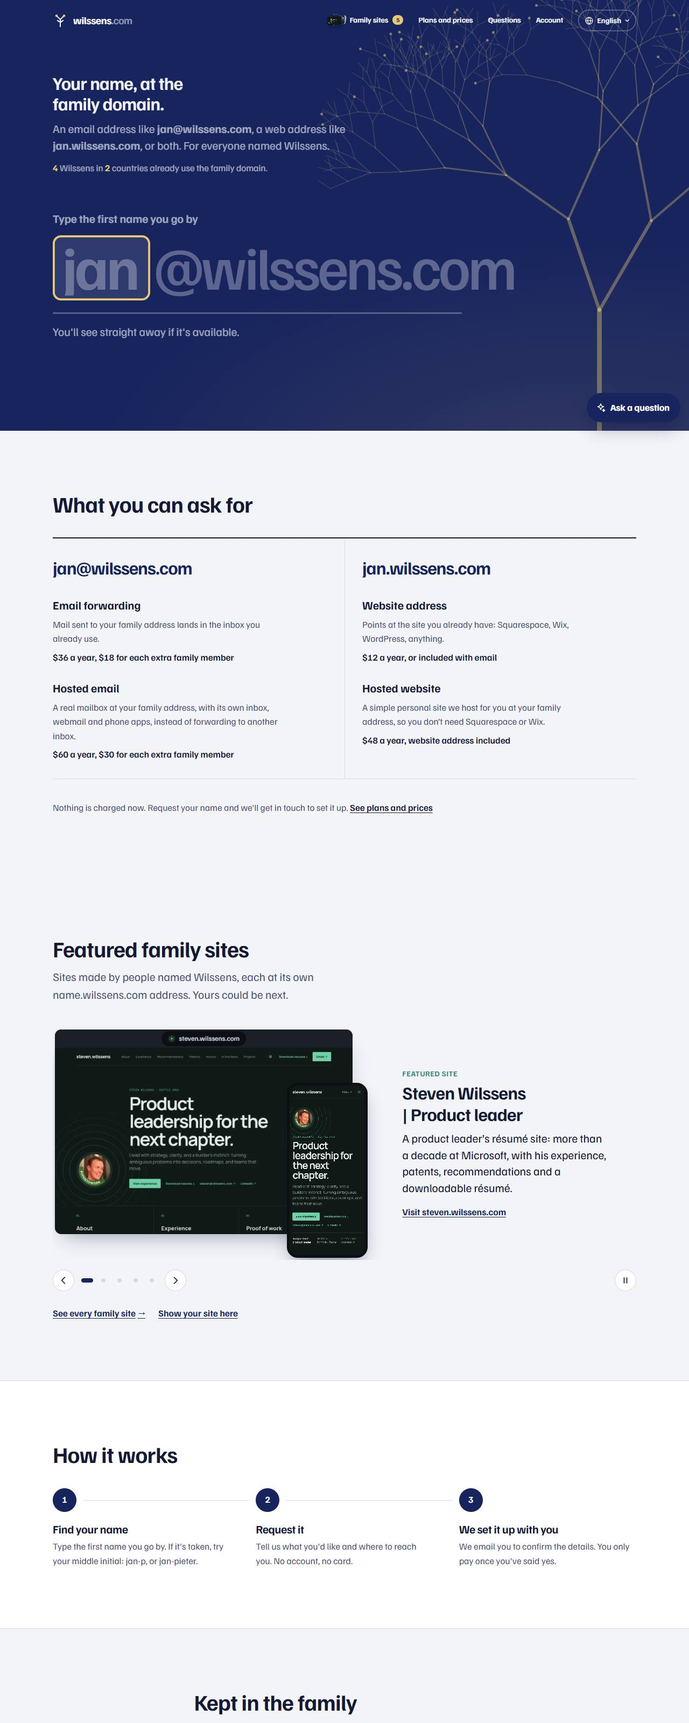
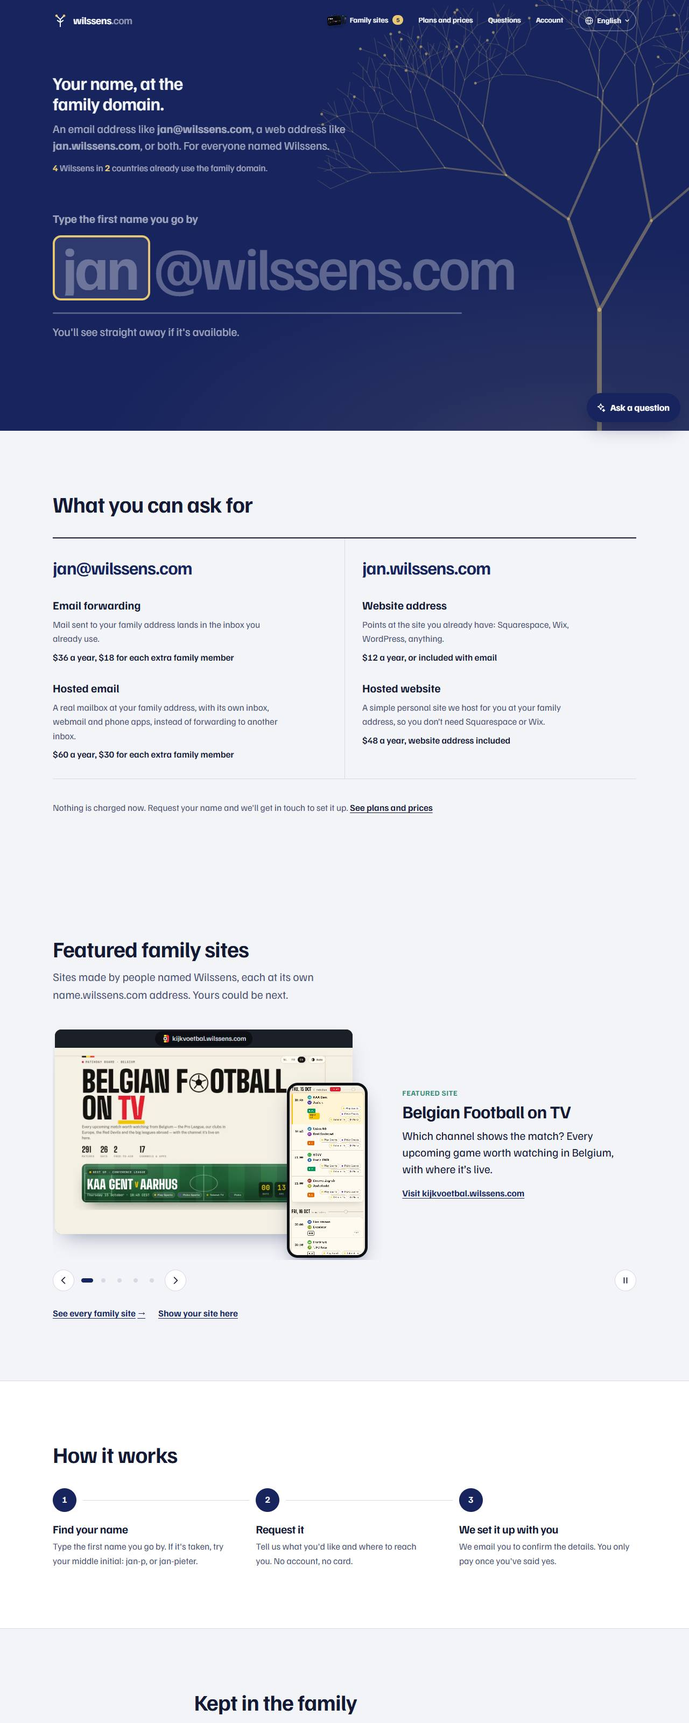
Sharpen positioning for recruiters and feature the wilssens.com write-up
Home: a headline with level and domain, one focus (data, experimentation, AI),
three capabilities tied to stories, and the Building wilssens.com write-up
featured. Article: a hiring-manager summary up top and outcome numbers instead
of build metrics. Photos are no longer inlined as data: URIs, which scrapers
read as empty images.

Changed region(s): [[0.0625, 0.5938, 0.5312, 0.75], [0.5625, 0.625, 0.875, 0.7188]]

diff --git a/src/App.tsx b/src/App.tsx
@@ -1,4 +1,4 @@
-import { useEffect, useRef, useState, useSyncExternalStore } from 'react'
+import { useEffect, useRef, useState, useSyncExternalStore, type ReactNode } from 'react'
 import { flushSync } from 'react-dom'
 import amitGupteImage from './assets/amit-gupte.jpg'
 import jayantAroraImage from './assets/jayant-arora.jpg'
@@ -58,14 +58,10 @@ const projects = [
   // This site: no outbound link, since the reader is already here.
   { name: 'steven.wilssens.com', url: 'https://steven.wilssens.com', tag: 'This site', self: true, desktop: stevenDesktop, mobile: stevenMobile, alt: 'The steven.wilssens.com home page: a dark green design with the headline “Product leadership for the next chapter.”', summary: 'The site you are reading, built and run like a product. React pages are prerendered to static HTML and served from Cloudflare Pages, with every push to main deploying to production and every branch getting its own preview. Its own privacy-friendly analytics track visits, Core Web Vitals per device, and search engine and AI crawler traffic. Every page also comes as Markdown, with llms.txt and structured data, so AI assistants read it as well as people do.' },
 ]
-const capabilities = [
-  ['01', 'Strategic leadership', 'Define and socialize long-term product vision, then translate it into roadmaps and decisions teams can execute against.'],
-  ['02', 'Portfolio oversight', 'Manage consumer-facing surfaces and product portfolios, creating simple, consistent experiences across platforms.'],
-  ['03', 'Build great PM teams', 'Hire, mentor, and grow high-performing PMs and people managers through clear craft standards and development paths.'],
-  ['04', 'Executive communication', 'Align senior leaders on strategy, execution risks, and mitigation plans so complex initiatives stay clear and moving.'],
-  ['05', 'Cross-functional alignment', 'Partner with Engineering, Design, Analytics, and Revenue leaders to balance business value with customer experience.'],
-  ['06', 'Operational excellence', 'Establish rigorous experimentation and funnel-analysis frameworks that drive measurable gains in completion and retention.'],
-  ['07', 'Technically grounded innovation', 'Bring technical depth, product judgment, and a builder’s instinct to ambiguous problems and turn signals into better decisions.'],
+const capabilities: [string, string, ReactNode][] = [
+  ['01', 'Data and experimentation products', 'Led the PM team behind the data, insights, experimentation and ML products that Windows engineers and PMs use to decide what ships, built on telemetry from more than a billion devices.'],
+  ['02', 'PM teams that grow', 'Several of the recommendations here come from people who reported to me for years. They describe the opportunities, visibility and coaching that moved their careers forward.'],
+  ['03', 'Leading by building', <>When a retiring OKR tool left a gap, a member of my team and I stood up a replacement from scratch with AI tools. I built <a href="/building-wilssens">wilssens.com</a> the same way, to stay sharp on what my teams ship, not to replace them.</>],
 ]
 const recommendations = [
   ['Steve Rowe', 'Group Engineering Manager at Microsoft', `I had the privilege of working with Steven for five years. He was relentless in pursuing what he believed the product and our customers truly needed, even when it wasn’t the prevailing trend. Always full of ideas, he continually identified new features and opportunities to create customer value. Steven was also a quick study who could enter an unfamiliar space, rapidly develop a strong understanding of it, and begin generating thoughtful ideas.
@@ -171,21 +167,23 @@ function App({ path }: { path?: string }) {
   const renderImpactStrip = () => <section className="impact-strip" aria-label="Selected impact"><div><strong>250%+</strong><span>growth in monthly active spatial-audio devices</span></div><div><strong>1B+</strong><span>Windows devices informing product decisions</span></div><div><strong>15%</strong><span>increase in Windows adoption</span></div><div><strong>30%</strong><span>reduction in customer issues</span></div></section>
   const renderCapabilities = () => <section className="capabilities"><div className="capabilities-heading"><span className="eyebrow">What I do well</span><h2>Leadership that turns ambiguity into momentum.</h2></div><div className="capability-grid">{capabilities.map(([number, title, description]) => <article key={title}><span className="section-number">{number}</span><h3>{title}</h3><p>{description}</p></article>)}</div></section>
   const renderPullQuotes = () => <section className="pull-quotes" aria-label="What colleagues say"><span className="eyebrow">What colleagues say</span><div className="pull-quote-grid">{pullQuotes.map(([name, quote]) => { const role = recommendations.find(([person]) => person === name)?.[1]; return <figure key={name}><blockquote>“{quote}”</blockquote><figcaption><span className="avatar">{recommendationImages[name] ? <img src={recommendationImages[name]} alt={`${name} profile`} /> : name.split(' ').map((part) => part[0]).join('')}</span><span><strong>{name}</strong><small>{role}</small></span></figcaption></figure> })}</div><a className="text-link" href="/recommendations">Read all {recommendations.length} recommendations →</a></section>
-  const renderContactBand = () => <section className="contact-band"><div><span className="eyebrow">Start a conversation</span><h2>Working through a hard product problem?</h2><p>I’m exploring product leadership, experimentation, audio, data, and AI.</p></div><div className="contact-actions"><a className="primary-button" href="mailto:steven@wilssens.com">Email Steven ↗</a>{renderResumeLink('text-link')}<a className="text-link" href="https://www.linkedin.com/in/steven-wilssens-59495889/" target="_blank" rel="noreferrer">Connect on LinkedIn ↗</a></div></section>
-  const renderHome = () => <><section className="profile-hero"><SpatialField><img src={profileImage} alt="Steven Wilssens" /></SpatialField><div className="hero-copy"><div className="eyebrow hero-kicker"><h1>Steven Wilssens</h1> · Seattle area</div><p className="hero-title">Product leadership for the next chapter.</p><p className="lede">I lead with strategy, clarity, and a builder’s instinct: turning ambiguous problems into decisions, roadmaps, and teams that move.</p><div className="hero-actions"><a className="primary-button" href="/experience">View experience</a>{renderResumeLink('text-link')}<a className="text-link" href="mailto:steven@wilssens.com">steven@wilssens.com ↗</a><a className="text-link" href="https://www.linkedin.com/in/steven-wilssens-59495889/" target="_blank" rel="noreferrer">LinkedIn ↗</a></div></div><div className="hero-facts"><span>Independent product leader</span><span>Strategy · Portfolio · Teams</span><span>Clarity · Rigor · Momentum</span></div></section><section className="overview-grid"><article><span className="section-number">01</span><h2>About</h2><p>Product, portfolio, and people leadership grounded in customer insight, rigorous execution, and technical judgment.</p><a href="/about">Read the story →</a></article><article><span className="section-number">02</span><h2>Experience</h2><p>From Belgian software development to Windows data, spatial audio, Azure DevOps, and team leadership.</p><a href="/experience">See the timeline →</a></article><article><span className="section-number">03</span><h2>Proof of work</h2><p>Patents, honors, recommendations, press coverage, and projects from the work I have helped bring into the world.</p><div className="proof-links"><a href="/patents">Patents</a><a href="/honors">Honors</a><a href="/recommendations">Recommendations</a><a href="/news">In the News</a><a href="/projects">Projects</a></div></article></section></>
-  const renderAbout = () => <>{renderPageHeader({ title: 'About', intro: 'A product and technology leader beginning a new chapter after Microsoft.' })}<section className="reading-layout"><div className="reading-main"><p className="intro-paragraph">After more than a decade at Microsoft, I am now bringing a career in data, AI, product strategy, software, and people leadership into its next chapter.</p><p>Most recently, I led the Windows & Devices Data PM team, advancing the Windows ecosystem through data-driven strategies. I care about the space where customer signals, experimentation, machine learning, and strong product judgment meet.</p><p>Before leading Windows data teams, I built products and platforms across Azure DevOps, spatial audio, game streaming, and operating systems. Earlier still, I was a developer and team lead in Belgium, where I learned to pair technical depth with practical delivery and the growth of the people around me.</p></div><aside className="side-note"><img className="about-portrait" src={profileImage} alt="Steven Wilssens" width={124} height={124} /><span>Most recently</span><strong>Principal Group Product Manager, Microsoft</strong><span>Now exploring</span><strong>Product leadership, experimentation, audio, data, and AI</strong><span>Education</span><strong>{education.degree}, {education.school}</strong><span>Languages</span><strong>{languages}</strong></aside></section></>
+  const renderFeatured = () => { const project = projects[0]; return <section className="featured" aria-labelledby="featured-title"><span className="eyebrow">Featured write-up</span><article className="project-card"><a className="project-frame" href={project.article} aria-label="Read Building wilssens.com">{renderProjectFrame(project)}</a><div className="project-info"><p className="project-tag">Built in 16 days with Claude Code</p><h2 id="featured-title">Building wilssens.com</h2><p>A family platform for email and websites, built the way I’d want a platform team to build it: rules enforced by the database, experiments shipped dark and measured, and AI restricted by architecture rather than by prompt.</p><div className="project-links"><a className="project-article" href={project.article}>Read the write-up →</a></div></div></article></section> }
+  const renderContactBand = () => <section className="contact-band"><div><span className="eyebrow">Start a conversation</span><h2>Working through a hard product problem?</h2><p>I’m looking for my next product leadership role in data, experimentation and AI.</p></div><div className="contact-actions"><a className="primary-button" href="mailto:steven@wilssens.com">Email Steven ↗</a>{renderResumeLink('text-link')}<a className="text-link" href="https://www.linkedin.com/in/steven-wilssens-59495889/" target="_blank" rel="noreferrer">Connect on LinkedIn ↗</a></div></section>
+  const renderHome = () => <><section className="profile-hero"><SpatialField><img src={profileImage} alt="Steven Wilssens" /></SpatialField><div className="hero-copy"><div className="eyebrow hero-kicker"><h1>Steven Wilssens</h1> · Seattle area</div><p className="hero-title">Principal product leader for data and AI.</p><p className="lede">Most recently I led Windows & Devices Data product management at Microsoft: the data, experimentation and ML products behind decisions across a billion+ Windows devices. Now building in AI while choosing my next leadership role.</p><div className="hero-actions"><a className="primary-button" href="/experience">View experience</a>{renderResumeLink('text-link')}<a className="text-link" href="mailto:steven@wilssens.com">steven@wilssens.com ↗</a><a className="text-link" href="https://www.linkedin.com/in/steven-wilssens-59495889/" target="_blank" rel="noreferrer">LinkedIn ↗</a></div></div><div className="hero-facts"><span>Building in AI, choosing my next role</span><span>Principal · Group PM</span><span>Data · Experimentation · AI</span></div></section><section className="overview-grid"><article><span className="section-number">01</span><h2>About</h2><p>Product, portfolio, and people leadership grounded in customer insight, rigorous execution, and technical judgment.</p><a href="/about">Read the story →</a></article><article><span className="section-number">02</span><h2>Experience</h2><p>From Belgian software development to Windows data, spatial audio, Azure DevOps, and team leadership.</p><a href="/experience">See the timeline →</a></article><article><span className="section-number">03</span><h2>Proof of work</h2><p>Patents, honors, recommendations, press coverage, and projects from the work I have helped bring into the world.</p><div className="proof-links"><a href="/patents">Patents</a><a href="/honors">Honors</a><a href="/recommendations">Recommendations</a><a href="/news">In the News</a><a href="/projects">Projects</a></div></article></section></>
+  const renderAbout = () => <>{renderPageHeader({ title: 'About', intro: 'A product and technology leader beginning a new chapter after Microsoft.' })}<section className="reading-layout"><div className="reading-main"><p className="intro-paragraph">After more than a decade at Microsoft, I am now bringing a career in data, AI, product strategy, software, and people leadership into its next chapter.</p><p>Most recently, I led the Windows & Devices Data PM team, advancing the Windows ecosystem through data-driven strategies. I care about the space where customer signals, experimentation, machine learning, and strong product judgment meet.</p><p>Before leading Windows data teams, I built products and platforms across Azure DevOps, spatial audio, game streaming, and operating systems. Earlier still, I was a developer and team lead in Belgium, where I learned to pair technical depth with practical delivery and the growth of the people around me.</p></div><aside className="side-note"><img className="about-portrait" src={profileImage} alt="Steven Wilssens" width={124} height={124} /><span>Most recently</span><strong>Principal Group Product Manager, Microsoft</strong><span>Looking for</span><strong>Product leadership in data, experimentation and AI</strong><span>Education</span><strong>{education.degree}, {education.school}</strong><span>Languages</span><strong>{languages}</strong></aside></section></>
   const renderExperience = () => <>{renderPageHeader({ title: 'Experience', intro: 'A full career moving between code, customers, strategy, and teams.', showResume: true })}<section className="experience-graph" aria-label="Interactive experience timeline"><div className="graph-scroll" ref={graphScrollRef}><div className="graph-track" style={{ '--progress': selectedExperience } as React.CSSProperties}>{experiences.map((item, index) => <button className={`graph-node ${selectedExperience === index ? 'selected' : ''}`} style={{ '--node-index': index } as React.CSSProperties} type="button" key={`${item.role}-${item.dates}`} onClick={() => { scrollLockUntil.current = Date.now() + 1000; setSelectedExperience(index); experienceRefs.current[index]?.scrollIntoView?.({ behavior: 'smooth', block: 'start' }) }} aria-label={`Scroll to ${item.role} at ${item.company}`} aria-pressed={selectedExperience === index}><span className="graph-dot" /><span className="graph-year">{item.dates.match(/\d{4}/)?.[0]}</span><span className="graph-role" title={item.role}>{item.role}</span><span className="graph-company">{item.company}</span></button>)}</div></div></section><section className="timeline">{experiences.map((item, index) => <article className="timeline-item" ref={(element) => { experienceRefs.current[index] = element }} key={`${item.role}-${item.dates}`}><div className="timeline-date">{item.dates}</div><div className="timeline-body"><span className="company-label">{item.company}</span><h2>{item.role}</h2><p className="muted">{item.location}</p><p>{item.summary}</p><ul>{item.points.map((point) => <li key={point}>{point}</li>)}</ul></div></article>)}<article className="timeline-item"><div className="timeline-date">{education.dates}</div><div className="timeline-body"><span className="company-label">Education</span><h2>{education.degree}</h2><p className="muted">{education.school}</p><p>Languages: {languages}.</p></div></article></section></>
   const renderRecommendations = () => <>{renderPageHeader({ title: 'Recommendations', intro: 'A few notes from people who have built products and teams with me.' })}<section className="recommendation-list">{recommendations.map(([name, role, text]) => { const isExpanded = expandedRecommendation === name; return <article className="recommendation" key={name}><div className="avatar">{recommendationImages[name] ? <img src={recommendationImages[name]} alt={`${name} profile`} /> : name.split(' ').map((part) => part[0]).join('')}</div><div><h2><a className="recommendation-author" href={recommendationLinks[name]} target="_blank" rel="noreferrer">{name} ↗</a></h2><p className="muted">{role}</p><blockquote className={isExpanded ? 'expanded' : ''}>“{text}”</blockquote><button className="more-button" type="button" onClick={() => setExpandedRecommendation(isExpanded ? null : name)} aria-expanded={isExpanded}>{isExpanded ? 'less' : 'more'}</button></div></article> })}</section></>
   const renderArchive = ({ title, intro, items }: { title: string; intro: string; items: string[][] }) => <>{renderPageHeader({ title, intro })}<section className="archive-list honor">{items.map(([name, meta], index) => <article key={name}><span className="archive-index">{String(index + 1).padStart(2, '0')}</span><div><h2>{name}</h2><p>{meta}</p></div></article>)}</section></>
   const renderPatentGroup = (id: string, heading: string, dateLabel: string, items: Invention[]) => <section className="patent-group" aria-labelledby={id}><h2 id={id}>{heading} <span>{items.reduce((count, item) => count + item.records.length, 0)}</span></h2><div className="archive-list patent-list">{items.map(({ title, summary, records }) => <article key={title}><span className="patent-year">{records[0].date.slice(-4)}</span><div><h3>{title}</h3><p className="patent-summary">{summary}</p><ul className="patent-records">{records.map(({ number, date, filed }) => <li key={number}><a href={justiaUrl(number)} target="_blank" rel="noreferrer" aria-label={`${formatPatentNumber(number)} on Justia Patents`}>{formatPatentNumber(number)} ↗</a><span>{dateLabel} {date}</span><span>Filed {filed}</span></li>)}</ul></div></article>)}</div></section>
   const renderPatents = () => { const granted = grantedPatents.flatMap((item) => item.records).length; const published = patentApplications.flatMap((item) => item.records).length; return <>{renderPageHeader({ title: 'Patents', intro: `${granted} granted US patents and ${published} published applications in spatial audio, streaming, media, and device telemetry, all assigned to Microsoft.` })}{renderPatentGroup('granted-patents', 'Granted patents', 'Granted', grantedPatents)}{renderPatentGroup('patent-applications', 'Published applications', 'Published', patentApplications)}</> }
   const renderNews = () => <>{renderPageHeader({ title: 'In the News', intro: 'Coverage of spatial audio work from the Windows and Xbox era.' })}<section className="archive-list news-list">{news.map((item, index) => <article key={item.title}><span className="archive-index">{String(index + 1).padStart(2, '0')}</span><div><p className="news-publication">{item.publication}</p><h2>{item.title}</h2><p className="news-summary">{item.summary}</p><blockquote className="news-quote">{item.quote}<cite>Steven Wilssens · {item.publication}</cite></blockquote><a href={item.url} target="_blank" rel="noreferrer">Read article ↗</a></div></article>)}</section></>
-  const renderProjects = () => <>{renderPageHeader({ title: 'Projects & interests', intro: 'A few projects where product thinking meets family, community, and the joy of making things useful.' })}<section className="project-list">{projects.map((project) => { const host = new URL(project.url).host; const frame = <><span className="project-browser"><span className="project-bar" aria-hidden="true"><span className="project-url"><svg viewBox="0 0 16 16" width="11" height="11"><path d="M4.5 7V5a3.5 3.5 0 0 1 7 0v2" fill="none" stroke="currentColor" strokeWidth="1.6" /><rect x="3" y="7" width="10" height="7" rx="1.5" fill="currentColor" /></svg>{host}</span></span><span className="project-viewport"><img src={project.desktop} alt={project.alt} width={1280} loading="lazy" decoding="async" /></span></span><span className="project-phone" aria-hidden="true"><img src={project.mobile} alt="" width={390} height={844} loading="lazy" decoding="async" /></span></>; return <article className="project-card" key={project.name}>{project.self ? <div className="project-frame">{frame}</div> : <a className="project-frame" href={project.url} target="_blank" rel="noreferrer" aria-label={`Visit ${host} (opens in a new tab)`}>{frame}</a>}<div className="project-info"><p className="project-tag">{project.tag}</p><h2>{project.name}</h2><p>{project.summary}</p><div className="project-links">{project.article && <a className="project-article" href={project.article}>Read how it was built →</a>}{!project.self && <a href={project.url} target="_blank" rel="noreferrer">Visit project ↗</a>}</div></div></article> })}</section></>
+  const renderProjectFrame = (project: typeof projects[number]) => { const host = new URL(project.url).host; return <><span className="project-browser"><span className="project-bar" aria-hidden="true"><span className="project-url"><svg viewBox="0 0 16 16" width="11" height="11"><path d="M4.5 7V5a3.5 3.5 0 0 1 7 0v2" fill="none" stroke="currentColor" strokeWidth="1.6" /><rect x="3" y="7" width="10" height="7" rx="1.5" fill="currentColor" /></svg>{host}</span></span><span className="project-viewport"><img src={project.desktop} alt={project.alt} width={1280} loading="lazy" decoding="async" /></span></span><span className="project-phone" aria-hidden="true"><img src={project.mobile} alt="" width={390} height={844} loading="lazy" decoding="async" /></span></> }
+  const renderProjects = () => <>{renderPageHeader({ title: 'Projects & interests', intro: 'A few projects where product thinking meets family, community, and the joy of making things useful.' })}<section className="project-list">{projects.map((project) => { const host = new URL(project.url).host; const frame = renderProjectFrame(project); return <article className="project-card" key={project.name}>{project.self ? <div className="project-frame">{frame}</div> : <a className="project-frame" href={project.url} target="_blank" rel="noreferrer" aria-label={`Visit ${host} (opens in a new tab)`}>{frame}</a>}<div className="project-info"><p className="project-tag">{project.tag}</p><h2>{project.name}</h2><p>{project.summary}</p><div className="project-links">{project.article && <a className="project-article" href={project.article}>Read how it was built →</a>}{!project.self && <a href={project.url} target="_blank" rel="noreferrer">Visit project ↗</a>}</div></div></article> })}</section></>
 
   const renderPrivacy = () => <>{renderPageHeader({ title: 'Privacy', intro: 'What this site records about visits, and what it doesn’t.' })}<section className="reading-layout privacy"><div className="reading-main"><h2>What I record</h2><p>To learn which pages are useful and how people find the site, it keeps its own simple visit statistics:</p><ul><li>Pages viewed, how long each stays open, and how far you scroll</li><li>Links and buttons you click, such as downloading the resume</li><li>Where the visit came from: the referring website and any tag in the link</li><li>Your browser, operating system, device type, language, and screen size</li><li>Approximate location (country, region, city, postal code, time zone, and rough coordinates) and the name of your network, which is often an internet provider or employer. Cloudflare works these out from your IP address.</li><li>How quickly pages load and respond (Core Web Vitals), including which part of the page was slowest</li></ul><p>Requests from search engines, AI crawlers and other bots are logged separately: the bot’s name and user agent, the address it fetched, and the country and network it came from.</p><h2>What I don’t record</h2><p>No cookies, no advertising or third-party trackers, and no IP addresses are stored. Visits from the same browser on the same day are grouped by a one-way code made from the IP address, browser, and date. The code changes every day, so visits on different days can’t be linked together.</p><h2>Your choices</h2><p>If your browser sends Global Privacy Control or Do Not Track, nothing is recorded. Your light or dark theme choice is saved only in your own browser.</p><h2>Where it’s kept</h2><p>Visit records are stored in a database at Cloudflare, which hosts this site, and are deleted automatically after 13 months. They are only used to understand how the site is used, and are never sold or shared. Fonts and all other files are served from this site. Cloudflare processes every request to deliver the site; see <a href="https://www.cloudflare.com/privacypolicy/" target="_blank" rel="noreferrer">Cloudflare’s privacy policy</a>.</p><h2>Questions</h2><p>Email <a href="mailto:steven@wilssens.com">steven@wilssens.com</a>.</p></div></section></>
   const renderNotFound = () => <>{renderPageHeader({ title: 'Page not found', intro: 'That page does not exist or has moved. Try the profile, the experience timeline, or the resume.', showResume: true })}</>
 
-  return <div className="site-shell"><a className="skip-link" href="#main">Skip to content</a><header className="site-header"><a className="wordmark" href="/">steven<span>.</span>wilssens</a><SiteNav items={navItems} page={page === 'building-wilssens' ? 'projects' : page} /><div className="header-contact"><button className="theme-toggle" type="button" onClick={toggleTheme} aria-label={theme === 'dark' ? 'Switch to light mode' : 'Switch to dark mode'} title={theme === 'dark' ? 'Light mode' : 'Dark mode'}>{theme === 'dark' ? <svg viewBox="0 0 24 24" aria-hidden="true"><circle cx="12" cy="12" r="4.5" /><path d="M12 2.5v2.5M12 19v2.5M2.5 12H5M19 12h2.5M5.3 5.3l1.8 1.8M16.9 16.9l1.8 1.8M5.3 18.7l1.8-1.8M16.9 7.1l1.8-1.8" /></svg> : <svg viewBox="0 0 24 24" aria-hidden="true"><path d="M20 14.5A8.5 8.5 0 0 1 9.5 4a8.5 8.5 0 1 0 10.5 10.5Z" /></svg>}</button>{renderResumeLink('text-link')}<a className="primary-button" href="mailto:steven@wilssens.com">Email ↗</a></div></header><main id="main" tabIndex={-1}>{page === 'home' && <>{renderHome()}{renderPullQuotes()}{renderCapabilities()}{renderImpactStrip()}{renderContactBand()}</>}{page === 'about' && renderAbout()}{page === 'experience' && renderExperience()}{page === 'recommendations' && renderRecommendations()}{page === 'patents' && renderPatents()}{page === 'honors' && renderArchive({ title: 'Honors & awards', intro: 'Recognition for teamwork, individual excellence, and a long practice of building useful things.', items: honors })}{page === 'news' && renderNews()}{page === 'projects' && renderProjects()}{page === 'building-wilssens' && <WilssensArticle />}{page === 'privacy' && renderPrivacy()}{page === 'notFound' && renderNotFound()}</main><footer><span>Steven Wilssens · 2026</span><span><a href="https://www.linkedin.com/in/steven-wilssens-59495889/" target="_blank" rel="noreferrer">LinkedIn</a> · <a href={resumeUrl} download={resumeFileName}>Resume</a> · <a href="/privacy">Privacy</a> · steven@wilssens.com</span></footer></div>
+  return <div className="site-shell"><a className="skip-link" href="#main">Skip to content</a><header className="site-header"><a className="wordmark" href="/">steven<span>.</span>wilssens</a><SiteNav items={navItems} page={page === 'building-wilssens' ? 'projects' : page} /><div className="header-contact"><button className="theme-toggle" type="button" onClick={toggleTheme} aria-label={theme === 'dark' ? 'Switch to light mode' : 'Switch to dark mode'} title={theme === 'dark' ? 'Light mode' : 'Dark mode'}>{theme === 'dark' ? <svg viewBox="0 0 24 24" aria-hidden="true"><circle cx="12" cy="12" r="4.5" /><path d="M12 2.5v2.5M12 19v2.5M2.5 12H5M19 12h2.5M5.3 5.3l1.8 1.8M16.9 16.9l1.8 1.8M5.3 18.7l1.8-1.8M16.9 7.1l1.8-1.8" /></svg> : <svg viewBox="0 0 24 24" aria-hidden="true"><path d="M20 14.5A8.5 8.5 0 0 1 9.5 4a8.5 8.5 0 1 0 10.5 10.5Z" /></svg>}</button>{renderResumeLink('text-link')}<a className="primary-button" href="mailto:steven@wilssens.com">Email ↗</a></div></header><main id="main" tabIndex={-1}>{page === 'home' && <>{renderHome()}{renderFeatured()}{renderPullQuotes()}{renderCapabilities()}{renderImpactStrip()}{renderContactBand()}</>}{page === 'about' && renderAbout()}{page === 'experience' && renderExperience()}{page === 'recommendations' && renderRecommendations()}{page === 'patents' && renderPatents()}{page === 'honors' && renderArchive({ title: 'Honors & awards', intro: 'Recognition for teamwork, individual excellence, and a long practice of building useful things.', items: honors })}{page === 'news' && renderNews()}{page === 'projects' && renderProjects()}{page === 'building-wilssens' && <WilssensArticle />}{page === 'privacy' && renderPrivacy()}{page === 'notFound' && renderNotFound()}</main><footer><span>Steven Wilssens · 2026</span><span><a href="https://www.linkedin.com/in/steven-wilssens-59495889/" target="_blank" rel="noreferrer">LinkedIn</a> · <a href={resumeUrl} download={resumeFileName}>Resume</a> · <a href="/privacy">Privacy</a> · steven@wilssens.com</span></footer></div>
 }
 
 export default App

diff --git a/src/articles/wilssens/WilssensArticle.tsx b/src/articles/wilssens/WilssensArticle.tsx
@@ -31,7 +31,8 @@ const sections = [
 const articleUrl = 'https://steven.wilssens.com/building-wilssens'
 const linkedInShare = `https://www.linkedin.com/sharing/share-offsite/?url=${encodeURIComponent(articleUrl)}`
 
-const stats: [number, string, string][] = [[16, '', 'days from first commit'], [179, '', 'commits'], [47, '', 'database migrations'], [48, 'k', 'lines of code']]
+// Outcomes, not effort, as of 15 October 2026. [value, prefix, decimals, label]
+const stats: [number, string, number, string][] = [[3, '', 0, 'family mailboxes moved off Microsoft 365'], [5, '', 0, 'websites live on the family domain'], [16, '', 0, 'questions to the help assistant this month'], [1.26, '$', 2, 'AI help cost this month, of a $25 cap']]
 
 const Figure = ({ children, caption }: { children: ReactNode; caption: string }) => <figure className="wx-figure wx-diagram"><div className="wx-diagram-scroll">{children}</div><figcaption>{caption}</figcaption></figure>
 
@@ -60,7 +61,7 @@ export default function WilssensArticle() {
       <p className="wx-dek">A family name, turned into a platform: how a search box became mailboxes, websites, AI apps and a command line, and the rules that kept it safe.</p>
       <p className="wx-ticker" aria-label="name@wilssens.com"><span className="wx-ticker-names" aria-hidden="true">{['jan', 'emma', 'lotte', 'marc', 'an'].map((name) => <span key={name}>{name}</span>)}</span><span className="wx-ticker-domain" aria-hidden="true">@wilssens.com</span></p>
       <p className="wx-meta">Steven Wilssens · October 2026 · <span data-read-time>15 min read</span></p>
-      <dl className="wx-stats">{stats.map(([value, suffix, label]) => <div key={label}><dt><span data-count={value}>{value}</span>{suffix}</dt><dd>{label}</dd></div>)}</dl>
+      <dl className="wx-stats">{stats.map(([value, prefix, decimals, label]) => <div key={label}><dt>{prefix}<span data-count={value} data-decimals={decimals}>{value.toFixed(decimals)}</span></dt><dd>{label}</dd></div>)}</dl>
       <div className="wx-actions">
         <a className="primary-button" href="https://www.wilssens.com" target="_blank" rel="noreferrer">Visit wilssens.com ↗</a>
         <a className="text-link" href={linkedInShare} target="_blank" rel="noreferrer">Share on LinkedIn ↗</a>
@@ -77,7 +78,18 @@ export default function WilssensArticle() {
       </div>
 
       <div className="wx-body">
-        <p className="wx-lede">In 16 days, a surname became a small cloud platform: 179 commits, 47 database migrations and about 48,000 lines of code, live at <a href="https://www.wilssens.com" target="_blank" rel="noreferrer">www.wilssens.com</a>.</p>
+        <aside className="wx-brief" aria-labelledby="brief">
+          <h2 id="brief">What this shows about how I lead products</h2>
+          <p>The scale is my immediate family, on purpose. The point is the rigor, applied at small scale, that I’d expect from a platform team at any size.</p>
+          <ul>
+            <li><strong>Rules first, enforced by the system.</strong> The few rules that matter (who owns a name, what stays private) are enforced by the database, not by code review, so no later feature can break them. <a href="#rules">Rules before features</a></li>
+            <li><strong>Experimentation from day one.</strong> It started as a demand test, and every feature ships switched off, with named events and a funnel, the same loop I ran for Windows. <a href="#experiments">Experiments</a></li>
+            <li><strong>AI restricted by architecture, not by prompt.</strong> The assistant can only offer actions the server has vetted, and its answers are signed. Trust, safety and impersonation were designed in. <a href="#assistant">The AI helper</a> · <a href="#safety">Keeping people safe</a></li>
+          </ul>
+          <p><strong>Why a product leader still builds:</strong> I build to stay sharp on what my teams ship, not to replace them. I built this with Claude Code, Anthropic’s AI coding tool, in 16 days. That pace came from a written decision log the AI read at the start of every session, which is how I’d run AI-assisted work on a team too. See <a href="#practices">Best practices</a>.</p>
+        </aside>
+
+        <p className="wx-lede">Today <a href="https://www.wilssens.com" target="_blank" rel="noreferrer">www.wilssens.com</a> runs my family’s email and websites: mailboxes moved off Microsoft 365 to one automated Zoho organization, five websites live, and a help assistant that answers relatives’ questions before they reach me.</p>
 
         <section aria-labelledby="domain">
           <H2 id="domain" kicker="01">A domain with a family attached</H2>

diff --git a/src/App.css b/src/App.css
@@ -42,11 +42,13 @@ main { padding: 74px 0 110px; }.profile-hero { display: grid; grid-template-colu
 .project-links .project-article { padding: 8px 14px; border: 1px solid var(--green); border-radius: 999px; transition: background 200ms ease, color 200ms ease; }
 .project-links .project-article:hover, .project-links .project-article:focus-visible { background: var(--green); color: var(--on-green); }
 @media (max-width: 860px) { .project-card { grid-template-columns: minmax(0, 1fr); gap: 24px; padding: 40px 0; } }
+.featured { margin-top: 82px; padding-top: 36px; border-top: 1px solid var(--line); }.featured .project-card { padding-bottom: 0; border-bottom: 0; }
+.capability-grid p a { color: var(--ink); }
 @media (prefers-reduced-motion: reduce) { .project-frame:hover .project-viewport img, .project-frame:focus-visible .project-viewport img, .project-frame:hover .project-browser, .project-frame:focus-visible .project-browser, .project-frame:hover .project-phone, .project-frame:focus-visible .project-phone { transform: none; } }
 .impact-strip { display: grid; grid-template-columns: repeat(4, 1fr); gap: 24px; margin: 42px 0 0; padding: 28px 0; border-top: 1px solid var(--line); border-bottom: 1px solid var(--line); }
 .impact-strip div { display: grid; gap: 7px; padding-right: 20px; border-right: 1px solid var(--line); }.impact-strip div:last-child { border-right: 0; }.impact-strip strong { color: var(--green); font-size: 31px; letter-spacing: -1.5px; }.impact-strip span { max-width: 160px; color: var(--muted); font-size: 12px; line-height: 1.45; }
 .contact-band { display: flex; justify-content: space-between; gap: 40px; align-items: end; margin-top: 80px; padding: 36px 0 0; border-top: 3px solid var(--green); }.contact-band h2 { margin: 12px 0 8px; font-size: 31px; letter-spacing: -1px; }.contact-band p { margin: 0; color: var(--muted); font-size: 14px; }.contact-actions { display: flex; align-items: center; gap: 20px; white-space: nowrap; }
-.capabilities { margin-top: 82px; padding-top: 36px; border-top: 1px solid var(--line); }.capabilities-heading { display: grid; grid-template-columns: 1fr 2fr; gap: 24px; align-items: baseline; }.capabilities-heading h2 { max-width: 620px; margin: 0; font-size: 34px; letter-spacing: -1.2px; }.capability-grid { display: grid; grid-template-columns: repeat(2, 1fr); gap: 0 45px; margin-top: 40px; }.capability-grid article { display: grid; grid-template-columns: 42px 1fr; column-gap: 16px; padding: 24px 0; border-top: 1px solid var(--line); }.capability-grid .section-number { grid-row: span 2; padding-top: 5px; }.capability-grid h3 { margin: 0 0 7px; font-size: 18px; }.capability-grid p { margin: 0; color: var(--muted); font-size: 14px; line-height: 1.6; }
+.capabilities { margin-top: 82px; padding-top: 36px; border-top: 1px solid var(--line); }.capabilities-heading { display: grid; grid-template-columns: 1fr 2fr; gap: 24px; align-items: baseline; }.capabilities-heading h2 { max-width: 620px; margin: 0; font-size: 34px; letter-spacing: -1.2px; }.capability-grid { display: grid; grid-template-columns: repeat(3, 1fr); gap: 0 45px; margin-top: 40px; }.capability-grid article { display: grid; grid-template-columns: 42px 1fr; column-gap: 16px; padding: 24px 0; border-top: 1px solid var(--line); }.capability-grid .section-number { grid-row: span 2; padding-top: 5px; }.capability-grid h3 { margin: 0 0 7px; font-size: 18px; }.capability-grid p { margin: 0; color: var(--muted); font-size: 14px; line-height: 1.6; }
 @media (prefers-reduced-motion: reduce) { .graph-node { animation: none; opacity: 1; } }
 .pull-quotes { margin-top: 82px; padding-top: 36px; border-top: 1px solid var(--line); }.pull-quote-grid { display: grid; grid-template-columns: repeat(3, 1fr); gap: 36px; margin: 22px 0 28px; }.pull-quote-grid figure { display: flex; flex-direction: column; justify-content: space-between; gap: 22px; margin: 0; }.pull-quote-grid blockquote { margin: 0; font-size: 22px; font-weight: 700; line-height: 1.35; letter-spacing: -.4px; }.pull-quote-grid figcaption { display: flex; align-items: center; gap: 12px; }.pull-quote-grid figcaption .avatar { width: 40px; height: 40px; flex: none; }.pull-quote-grid figcaption strong { display: block; font-size: 14px; }.pull-quote-grid figcaption small { color: var(--muted); font-size: 12px; }
 

diff --git a/index.html b/index.html
@@ -7,7 +7,7 @@
     <link rel="apple-touch-icon" href="/apple-touch-icon.png" />
     <link rel="manifest" href="/site.webmanifest" />
     <meta name="viewport" content="width=device-width, initial-scale=1.0" />
-    <meta name="description" content="Steven Wilssens, product and technology leader: more than a decade at Microsoft, most recently leading Windows &amp; Devices Data product management." />
+    <meta name="description" content="Steven Wilssens, principal product leader for data, experimentation and AI: more than a decade at Microsoft, most recently leading Windows &amp; Devices Data product management." />
     <meta name="author" content="Steven Wilssens" />
     <meta name="robots" content="index, follow, max-image-preview:large, max-snippet:-1" />
     <meta name="google-site-verification" content="05RKhpBEgr0Hgjiah85ZNntkaBai6CDghlMGIfzKtCU" />
@@ -21,18 +21,18 @@
     <meta property="og:site_name" content="Steven Wilssens" />
     <meta property="og:locale" content="en_US" />
     <meta property="og:url" content="https://steven.wilssens.com/" />
-    <meta property="og:title" content="Steven Wilssens | Product leader" />
-    <meta property="og:description" content="Steven Wilssens, product and technology leader: more than a decade at Microsoft, most recently leading Windows &amp; Devices Data product management." />
+    <meta property="og:title" content="Steven Wilssens | Principal product leader, data and AI" />
+    <meta property="og:description" content="Steven Wilssens, principal product leader for data, experimentation and AI: more than a decade at Microsoft, most recently leading Windows &amp; Devices Data product management." />
     <meta property="og:image" content="https://steven.wilssens.com/og-image.png" />
     <meta property="og:image:width" content="1200" />
     <meta property="og:image:height" content="630" />
     <meta property="og:image:alt" content="Steven Wilssens, product leader" />
     <meta name="twitter:card" content="summary_large_image" />
-    <meta name="twitter:title" content="Steven Wilssens | Product leader" />
-    <meta name="twitter:description" content="Steven Wilssens, product and technology leader: more than a decade at Microsoft, most recently leading Windows &amp; Devices Data product management." />
+    <meta name="twitter:title" content="Steven Wilssens | Principal product leader, data and AI" />
+    <meta name="twitter:description" content="Steven Wilssens, principal product leader for data, experimentation and AI: more than a decade at Microsoft, most recently leading Windows &amp; Devices Data product management." />
     <meta name="twitter:image" content="https://steven.wilssens.com/og-image.png" />
     <meta name="twitter:image:alt" content="Steven Wilssens, product leader" />
-    <title>Steven Wilssens | Product leader</title>
+    <title>Steven Wilssens | Principal product leader, data and AI</title>
   </head>
   <body>
     <div id="root"></div>

diff --git a/src/pageMeta.ts b/src/pageMeta.ts
@@ -9,7 +9,7 @@ export const routes = ['about', 'experience', 'recommendations', 'patents', 'hon
 export type Page = 'home' | (typeof routes)[number] | 'notFound'
 
 export const pageMeta: Record<Page, { title: string; description: string }> = {
-  home: { title: 'Steven Wilssens | Product leader', description: 'Steven Wilssens, product and technology leader: more than a decade at Microsoft, most recently leading Windows & Devices Data product management.' },
+  home: { title: 'Steven Wilssens | Principal product leader, data and AI', description: 'Steven Wilssens, principal product leader for data, experimentation and AI: more than a decade at Microsoft, most recently leading Windows & Devices Data product management.' },
   about: { title: 'About | Steven Wilssens', description: 'Learn about Steven Wilssens and his approach to product, portfolio, and people leadership.' },
   experience: { title: 'Experience | Steven Wilssens', description: 'A career across product leadership, Windows & Devices, spatial audio, Azure DevOps, and software.' },
   recommendations: { title: 'Recommendations | Steven Wilssens', description: 'Recommendations from leaders, peers, and teammates who worked with Steven Wilssens.' },
@@ -35,7 +35,7 @@ const person = {
   url: `${siteUrl}/`,
   image: `${siteUrl}/profile.jpg`,
   email: 'mailto:steven@wilssens.com',
-  jobTitle: 'Product leader',
+  jobTitle: 'Principal product leader',
   description: pageMeta.home.description,
   knowsAbout: ['Product management', 'Product strategy', 'Product leadership', 'Data platforms', 'Experimentation', 'Machine learning', 'AI', 'Telemetry', 'Spatial audio', 'Game streaming', 'Windows', 'Xbox'],
   knowsLanguage: ['nl', 'en', 'fr'],

diff --git a/src/articles/wilssens/article.css b/src/articles/wilssens/article.css
@@ -98,6 +98,14 @@
 .wx-practices li::before { content: counter(practice, decimal-leading-zero); position: absolute; top: 18px; left: 22px; color: var(--green); font: 600 22px 'DM Mono', monospace; }
 .wx-practices li:hover { border-color: var(--green); transform: translateY(-3px); }
 .wx-practices strong { display: block; margin-bottom: 6px; font-size: 16.5px; line-height: 1.35; }
+/* The short version for hiring managers, at the top of the article. */
+.wx-brief { margin: 0 0 40px; padding: 26px 28px 6px; border: 1px solid var(--line); border-left: 3px solid var(--green); border-radius: 16px; background: var(--card); font-size: 15.5px; line-height: 1.65; }
+.wx-brief h2 { margin: 0 0 10px; font-size: 21px; letter-spacing: -.5px; }
+.wx-brief > p { color: var(--quote); }
+.wx-brief ul { margin: 0 0 20px; padding-left: 18px; color: var(--quote); }
+.wx-brief li { margin-bottom: 10px; }
+.wx-brief li::marker { color: var(--green); }
+.wx-brief li a { white-space: nowrap; font-size: 13.5px; }
 .wx-end { margin-top: 40px; padding: 30px; border: 1px solid var(--line); border-radius: 20px; background: radial-gradient(120% 140% at 100% 0%, color-mix(in srgb, var(--green) 16%, transparent), transparent 60%), var(--card); }
 .wx-end > p { margin-bottom: 18px !important; font-size: 24px; font-weight: 700; letter-spacing: -.6px; }
 
@@ -175,6 +183,7 @@
   .wx-table td + td { margin-top: 4px; }
   .wx-cards, .wx-practices { grid-template-columns: minmax(0, 1fr); }
   .wx-shot-url { font-size: 11px; transform: none; }
+  .wx-brief { padding: 20px 18px 4px; }
   .wx-end { padding: 22px; }
   .wx-end > p { font-size: 20px; }
   .wx-zoom-hint { opacity: 1; transform: none; }

diff --git a/src/App.test.tsx b/src/App.test.tsx
@@ -17,13 +17,20 @@ describe('resume site', () => {
     render(<App />)
 
     expect(screen.getByRole('heading', { level: 1, name: 'Steven Wilssens' })).toBeInTheDocument()
-    expect(screen.getByText('Product leadership for the next chapter.')).toBeInTheDocument()
+    expect(screen.getByText('Principal product leader for data and AI.')).toBeInTheDocument()
     expect(screen.getByText('250%+')).toBeInTheDocument()
     expect(screen.getByText('1B+')).toBeInTheDocument()
     expect(screen.getByRole('heading', { name: 'Leadership that turns ambiguity into momentum.' })).toBeInTheDocument()
-    expect(screen.getByText('Executive communication')).toBeInTheDocument()
+    expect(screen.getByText('Data and experimentation products')).toBeInTheDocument()
     expect(screen.getByRole('link', { name: /Email Steven/ })).toHaveAttribute('href', 'mailto:steven@wilssens.com')
     expect(screen.getByRole('link', { name: /Connect on LinkedIn/ })).toHaveAttribute('href', 'https://www.linkedin.com/in/steven-wilssens-59495889/')
+  })
+
+  it('features the wilssens.com write-up on the home page', () => {
+    render(<App />)
+
+    const featured = screen.getByRole('region', { name: 'Building wilssens.com' })
+    expect(within(featured).getByRole('link', { name: /Read the write-up/ })).toHaveAttribute('href', '/building-wilssens')
   })
 
   it('offers the resume PDF as a download from the home page', () => {

diff --git a/src/articles/wilssens/article.ts b/src/articles/wilssens/article.ts
@@ -72,10 +72,11 @@ export function enhanceArticle(root: HTMLElement): () => void {
         const element = entry.target as HTMLElement
         counters.unobserve(element)
         const target = Number(element.dataset.count)
+        const decimals = Number(element.dataset.decimals ?? 0)
         const start = performance.now(), duration = 1100
         const tick = (now: number) => {
           const t = Math.min(1, (now - start) / duration)
-          element.textContent = String(Math.round(target * (1 - Math.pow(1 - t, 3))))
+          element.textContent = (target * (1 - Math.pow(1 - t, 3))).toFixed(decimals)
           if (t < 1) requestAnimationFrame(tick)
         }
         requestAnimationFrame(tick)

diff --git a/vite.config.ts b/vite.config.ts
@@ -80,6 +80,9 @@ const staticPages = (): Plugin => {
 export default defineConfig({
   plugins: [react(), staticPages()],
   build: {
+    // Photos stay real files: small ones inlined as data: URIs show up as empty
+    // images to scrapers, link previews and AI readers.
+    assetsInlineLimit: (file) => /\.(jpe?g|png|webp)$/.test(file) ? false : undefined,
     rollupOptions: {
       input: { main: 'index.html', admin: 'admin.html' },
     },
